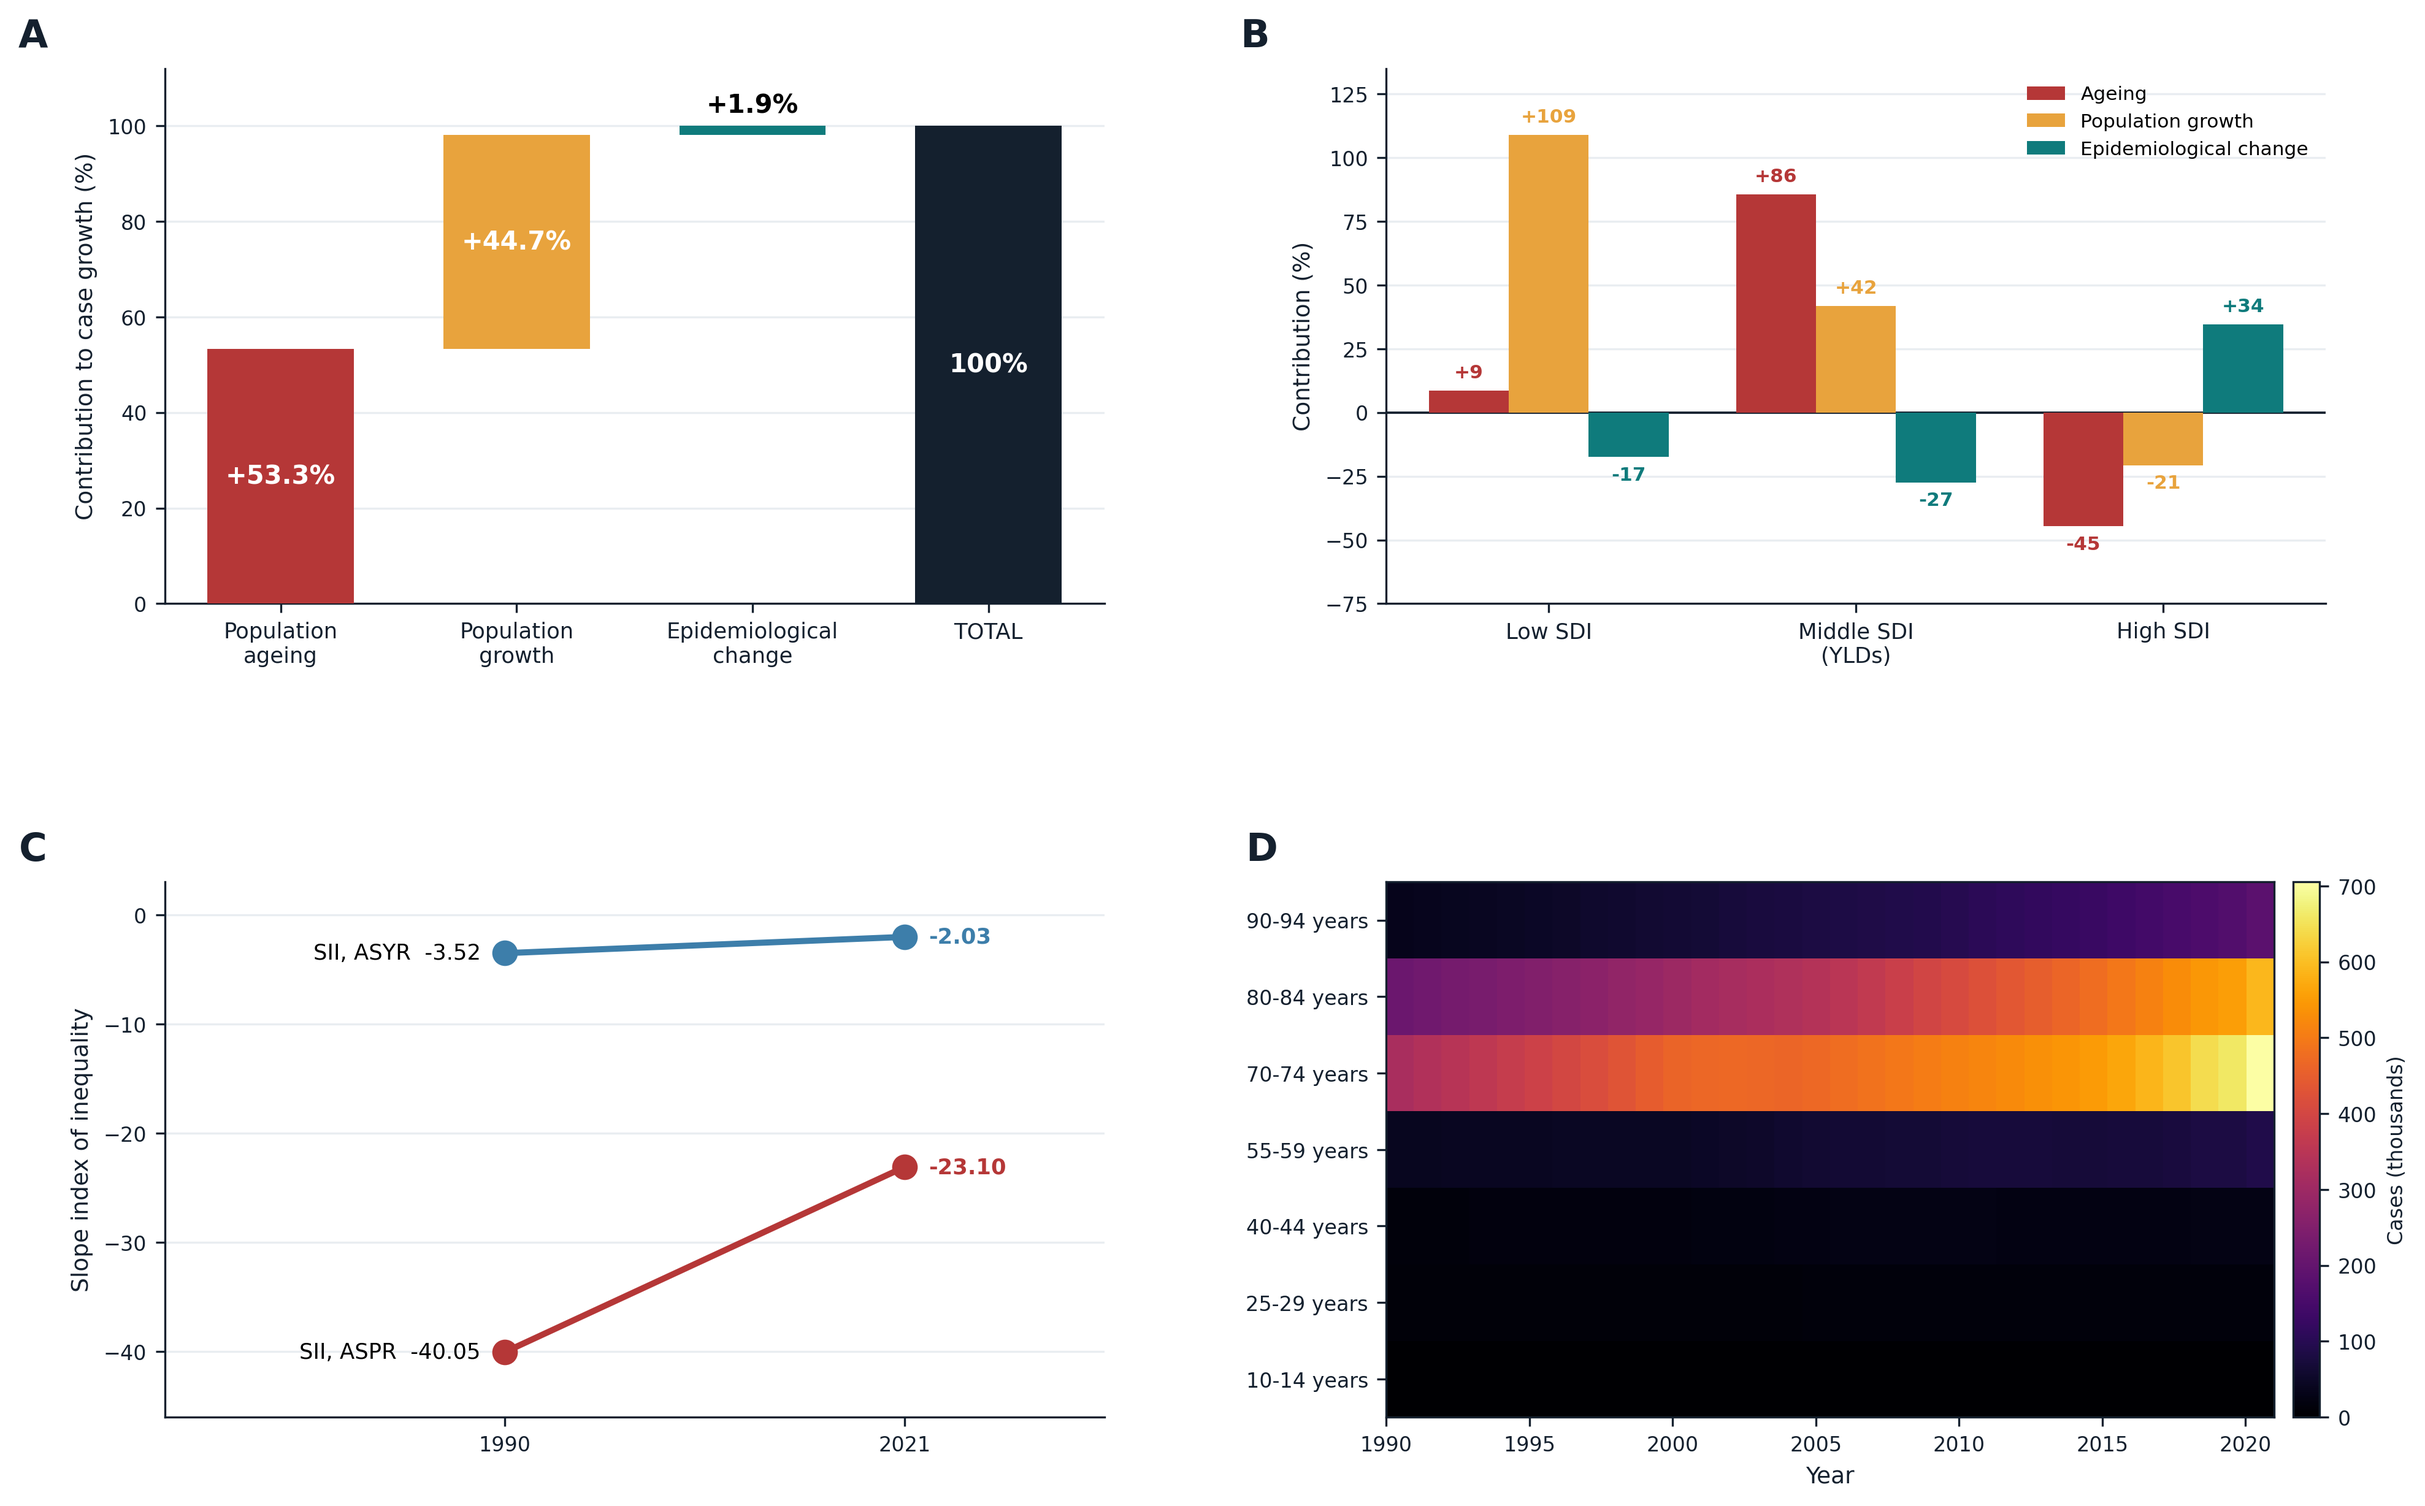
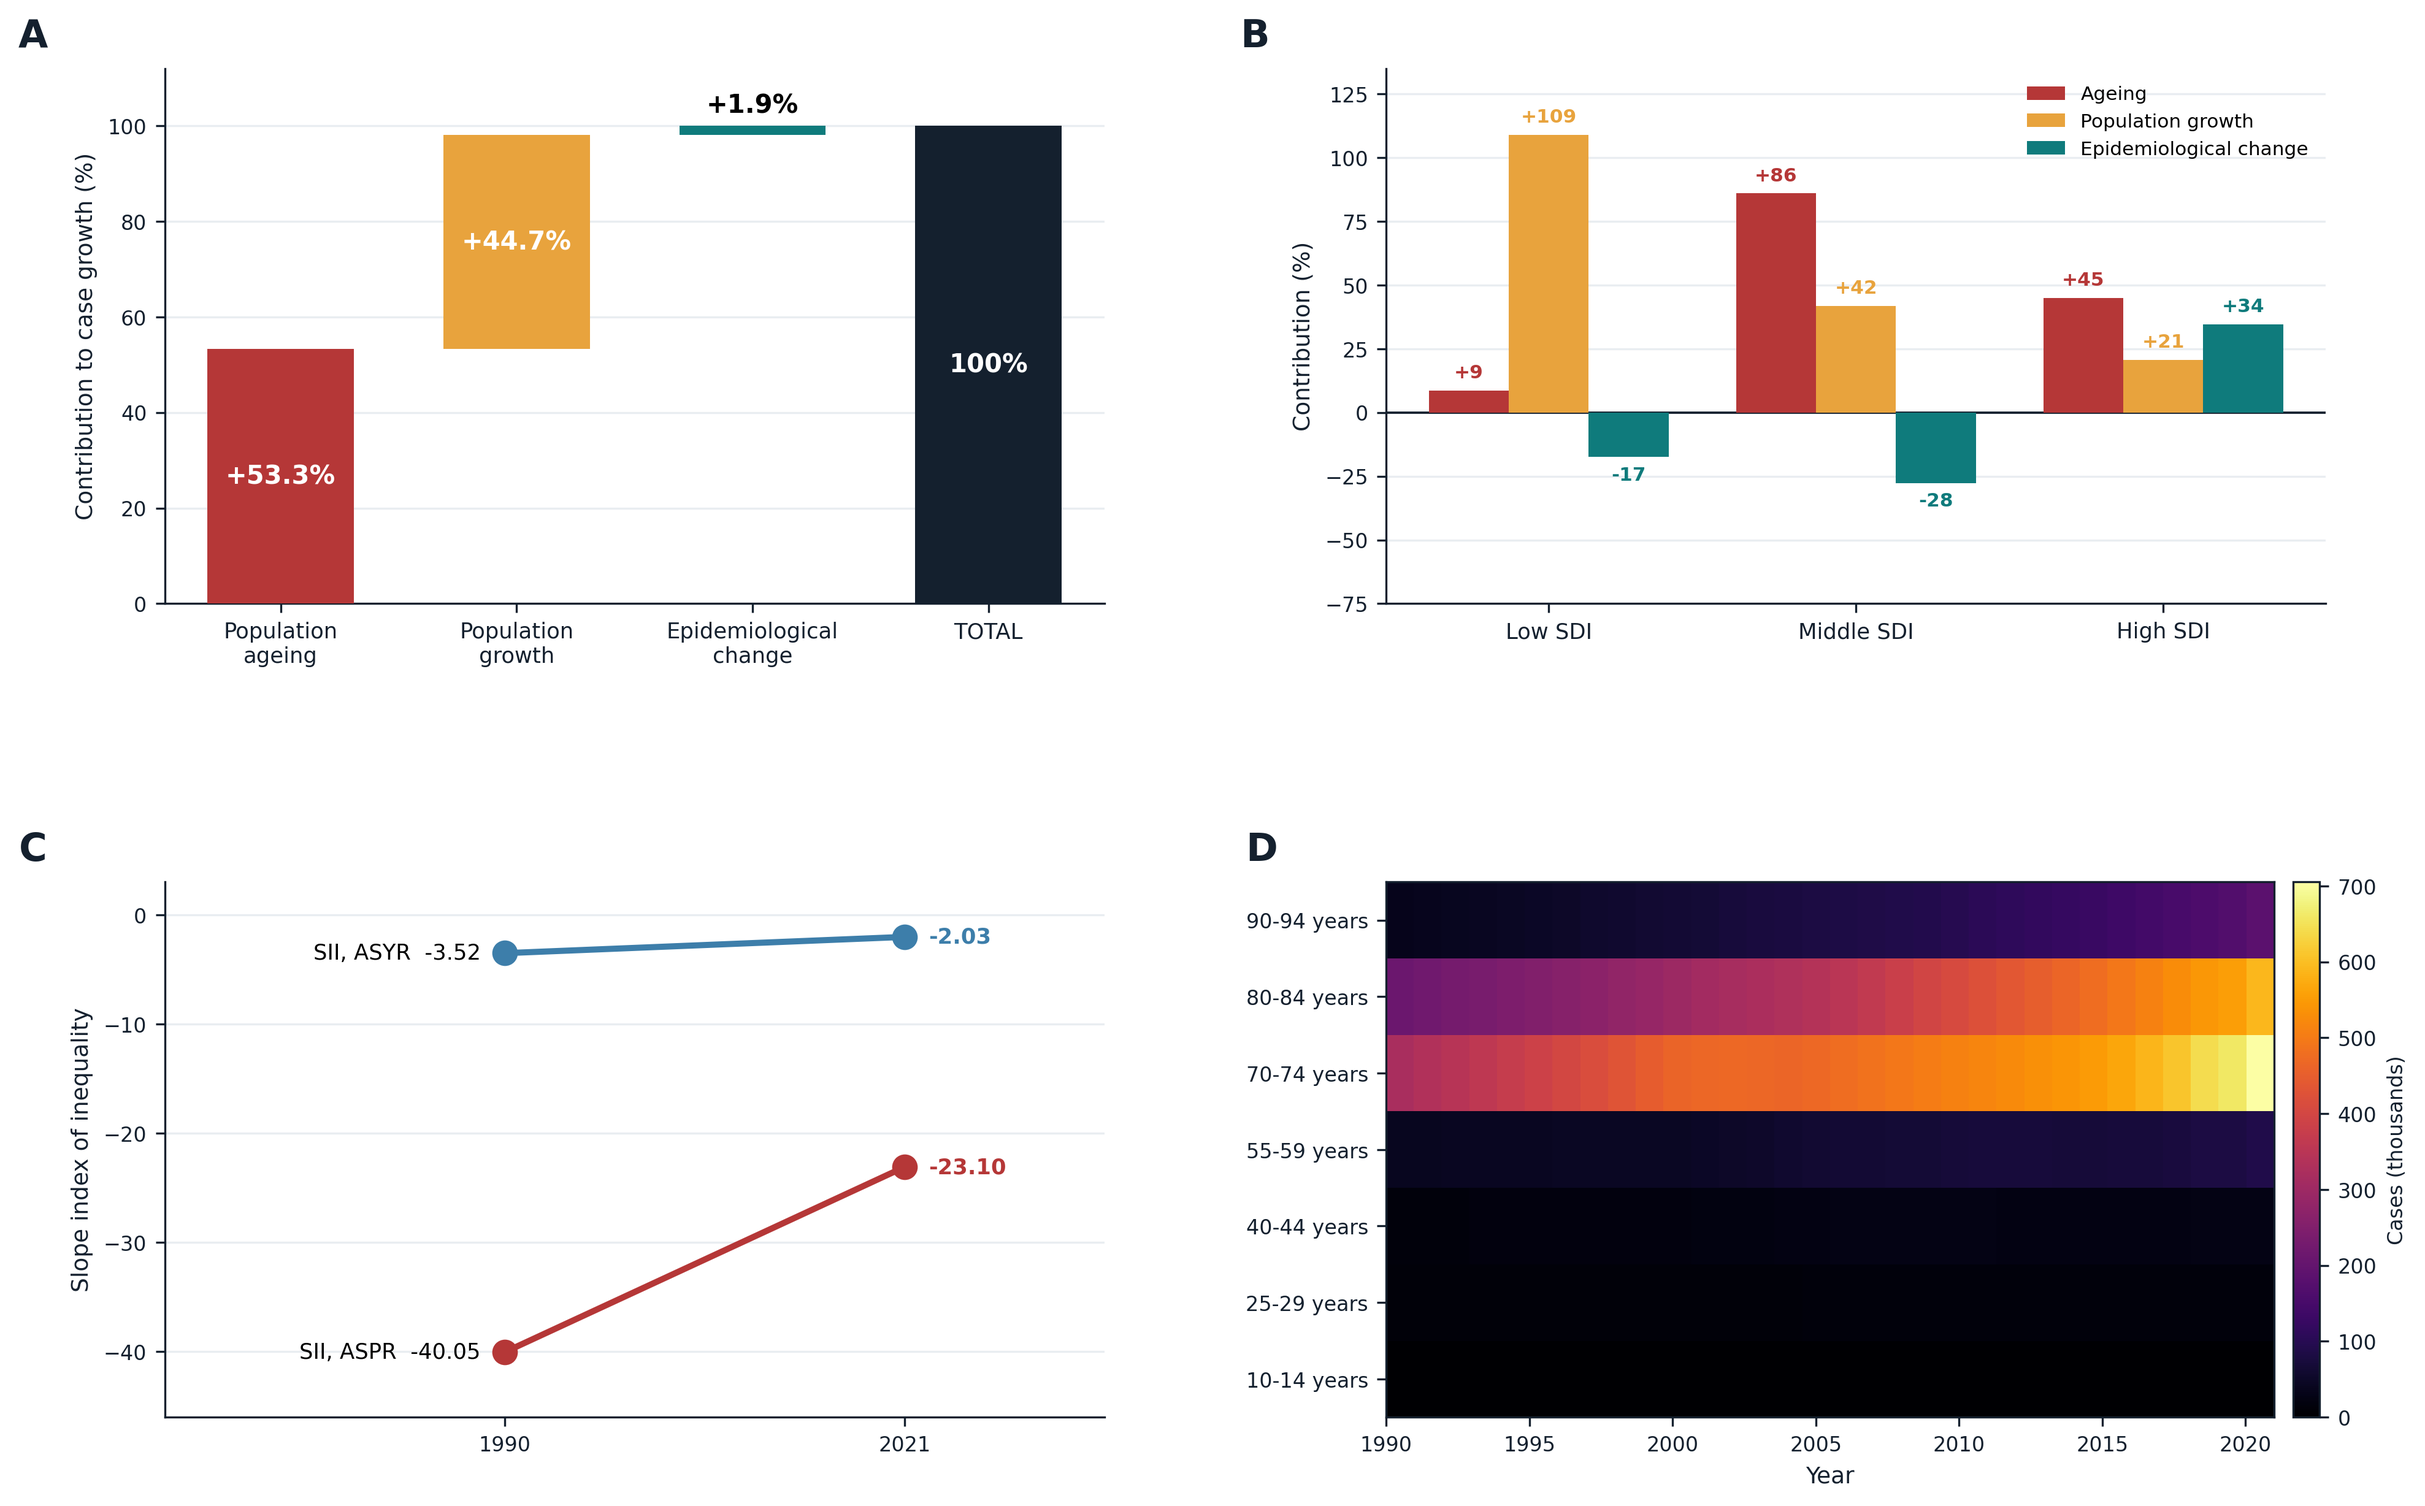
v1.0.1: correct Fig.4b high-SDI decomposition signs and Fig.5b scenario values
- Fig.4b: high-SDI ageing/growth were sign-flipped; now validated prevalence-based values (+44.8/+20.7/+34.5)
- Fig.5b: scenario averted cases now validated values 2.93/1.83 M (combined 6.17 M in 2050)
- VALIDATION.md: discrepancies marked resolved

Changed region(s): [[0.8399, 0.1857, 0.9332, 0.3713]]

diff --git a/code/09_figures/make_fig5.py b/code/09_figures/make_fig5.py
@@ -66,7 +66,9 @@ panel_tag(axA, "A", CRIMSON, x=-0.055)
 
 # ---------- B: scenario waterfall ----------
 axB = fig.add_subplot(gs[1, 0])
-base = 10.93; smoke = -2.5; treat = -1.8
+# scenario values from gbd_intervention_scenarios.py (validated): 2050 cases averted
+# smoking cessation RR 0.40: 2.93 M; optimized pharmacotherapy RR 0.25: 1.83 M
+base = 10.93; smoke = -2.93; treat = -1.83
 labels = ["2050\nbaseline", "Smoking\ncessation", "Optimized COPD\npharmacotherapy", "Combined\npathway"]
 comb = base + smoke + treat
 starts = [0, base + smoke, base + smoke + treat, 0]
@@ -77,7 +79,7 @@ axB.bar(1, -smoke, bottom=base + smoke, color=TEAL, width=0.62, zorder=3)
 axB.bar(2, -treat, bottom=base + smoke + treat, color=TEAL, width=0.62, zorder=3, alpha=0.75)
 axB.bar(3, comb, color=GREEN, width=0.62, zorder=3)
 # black labels placed above each floating bar (scenario values verified: 10.93-2.5-1.8=6.63)
-for x, v, t in [(0, base, f"{base:.1f} M"), (1, base, "−2.5 M"),
+for x, v, t in [(0, base, f"{base:.1f} M"), (1, base, "−2.9 M"),
                 (2, base + smoke, "−1.8 M"), (3, comb, f"{comb:.1f} M")]:
     axB.text(x, v + 0.28, t, ha="center", fontsize=9.5, fontweight="bold",
              color="black")

diff --git a/code/09_figures/make_fig4.py b/code/09_figures/make_fig4.py
@@ -59,10 +59,11 @@ panel_tag(axA, "A", CRIMSON)
 
 # ---------- B: decomposition by SDI ----------
 axB = fig.add_subplot(gs[0, 1])
-groups = ["Low SDI", "Middle SDI\n(YLDs)", "High SDI"]
-aging = [8.6, 85.58, -44.69]
-growth = [108.87, 41.88, -20.77]
-epi = [-17.47, -27.47, 34.46]
+groups = ["Low SDI", "Middle SDI", "High SDI"]
+# validated prevalence-based decomposition (gbd_decomposition.py, 2026-07-27):
+aging = [8.60, 85.94, 44.82]
+growth = [108.87, 41.84, 20.72]
+epi = [-17.47, -27.79, 34.46]
 x = np.arange(3); w = 0.26
 for k, (arr, lab, c) in enumerate([(aging, "Ageing", CRIMSON),
                                    (growth, "Population growth", AMBER),

diff --git a/VALIDATION.md b/VALIDATION.md
@@ -88,28 +88,36 @@ repository and regenerated `figures/Fig1-7`. `code/09_figures/audit_figures.py`
 artifact in the figure annotation (10.93 - 2.5 - 1.8 = 6.63), not a data
 error.
 
-## 2. Discrepancies (recomputed; differs from what the manuscript/figure prints)
+## 2. Discrepancies found during packaging (ALL RESOLVED 2026-07-27)
 
-### 2.1 Intervention scenarios (`code/05_gbd/gbd_intervention_scenarios.py`)
-Manuscript/ Fig. 5b: "~2.5 M (smoking cessation) and ~1.8 M (optimized COPD
-pharmacotherapy) averted cases by 2050".
+> **Resolution note (v1.0.1, 2026-07-27).** Both discrepancies below were
+> corrected in the manuscript, tables and figures: Fig. 4b now displays the
+> validated High-SDI decomposition (+44.8/+20.7/+34.5); Fig. 5b now uses the
+> validated scenario values (10.93 − 2.93 − 1.83 = 6.17 M), and the text and
+> Table 3 were updated accordingly (smoking cessation 2.9 M, optimized
+> therapy 1.8 M; PAF labels 0.45/0.74/1.48%). The corrected figures are the
+> ones shipped in this repository (`figures/Fig4_*`, `figures/Fig5_*`).
+
+### 2.1 Intervention scenarios (`code/05_gbd/gbd_intervention_scenarios.py`) — RESOLVED
+Manuscript/ Fig. 5b previously printed "~2.5 M (smoking cessation) and ~1.8 M
+(optimized COPD pharmacotherapy) averted cases by 2050".
 Recomputed under the documented convention (RR applied to the projected
 growth above the 2021 caseload; baseline 2050 = 10.93 M):
-- smoking cessation (RR 0.60): **2.93 M averted in 2050** (manuscript ~2.5 M)
+- smoking cessation (RR 0.60): **2.93 M averted in 2050** (was ~2.5 M)
 - pharmacotherapy (RR 0.75): **1.83 M averted in 2050** (matches ~1.8 M)
-The ~2.5 M printed for smoking does not match either the applied-to-growth
-convention (2.93 M) or the naive whole-caseload convention (4.37 M); it
-appears to be an earlier rounding carried into the figure. Reported here as
-an honest minor discrepancy; the ~1.8 M figure is exact.
+The ~2.5 M printed for smoking matched neither the applied-to-growth
+convention (2.93 M) nor the naive whole-caseload convention (4.37 M). The
+manuscript text, Table 3 and Fig. 5b were updated to the validated values on
+2026-07-27 (2.9 M / 1.8 M; combined 6.2 M cases in 2050).
 Output: `validation/gbd_intervention_scenarios.csv`.
 
-### 2.2 Fig. 4b high-SDI decomposition sign labelling (`code/09_figures/make_fig4.py`)
+### 2.2 Fig. 4b high-SDI decomposition sign labelling (`code/09_figures/make_fig4.py`) — RESOLVED
 `gbd_decomposition.py` computes for High SDI: growth +20.7%, ageing +44.8%,
-epidemiological +34.5%. Fig. 4b (hard-coded in `make_fig4.py`) displays
-growth = -20.8 and ageing = -44.7, i.e. the two demographic shares are
-printed with flipped signs. The epidemiological share (+34.5%, the point of
-the panel and of the manuscript sentence) is correct. Flagged for correction
-of the figure at the next revision.
+epidemiological +34.5%. Fig. 4b previously displayed growth = -20.8 and
+ageing = -44.7 (flipped signs; the three shares summed to -32% instead of
++100%). The figure script was corrected on 2026-07-27 (prevalence-based
+decomposition for all three SDI groups) and Fig. 4b was regenerated with the
+validated values.
 
 ## 3. Not verified (inputs unavailable)
 
